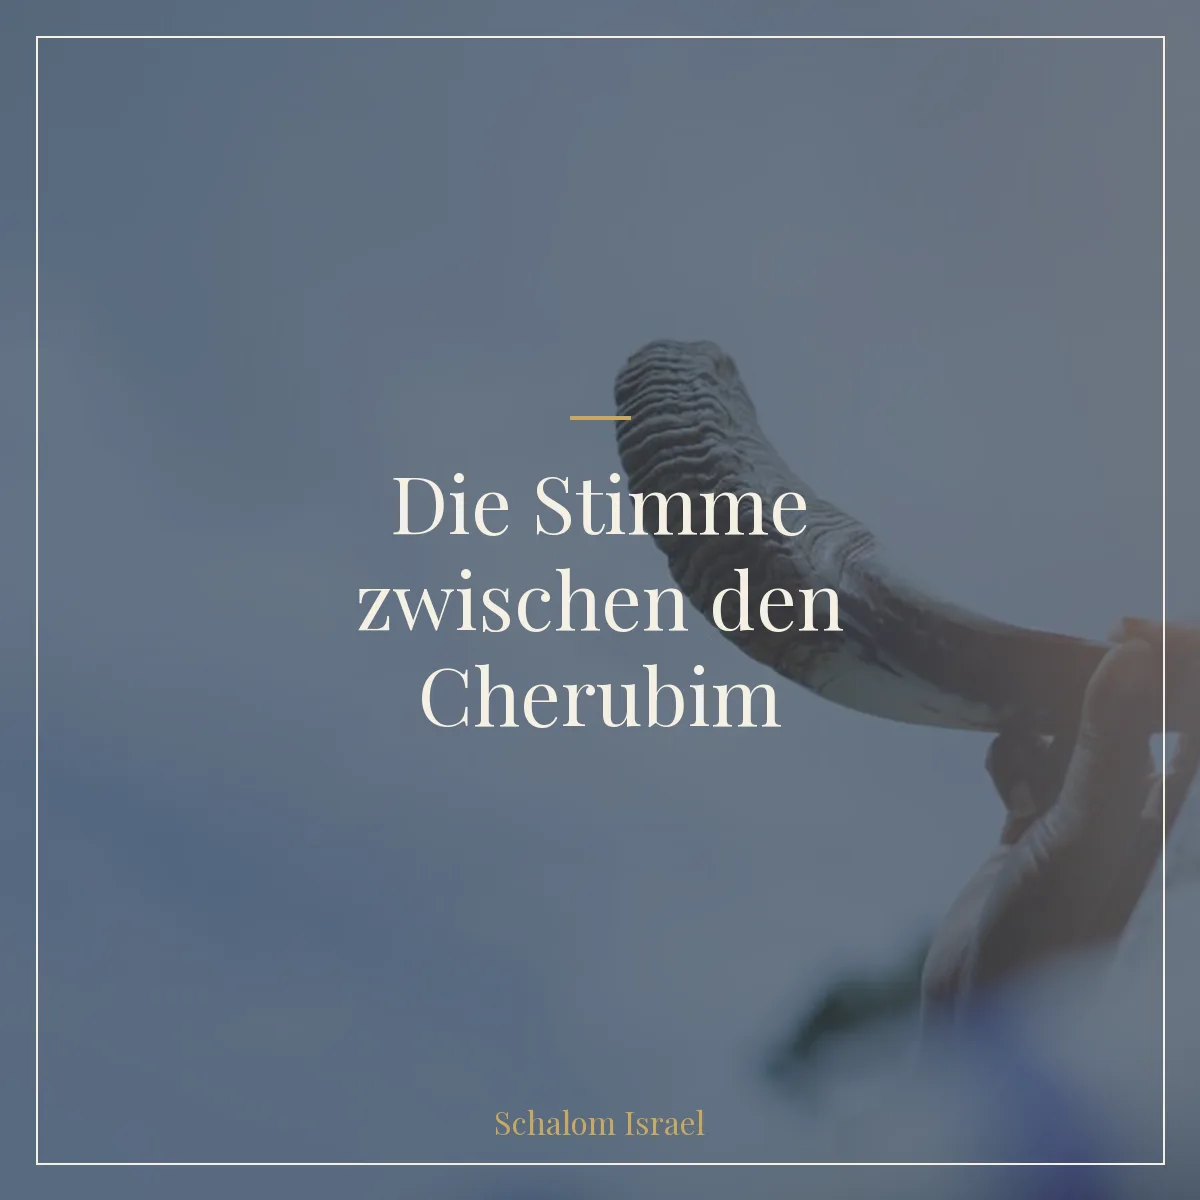
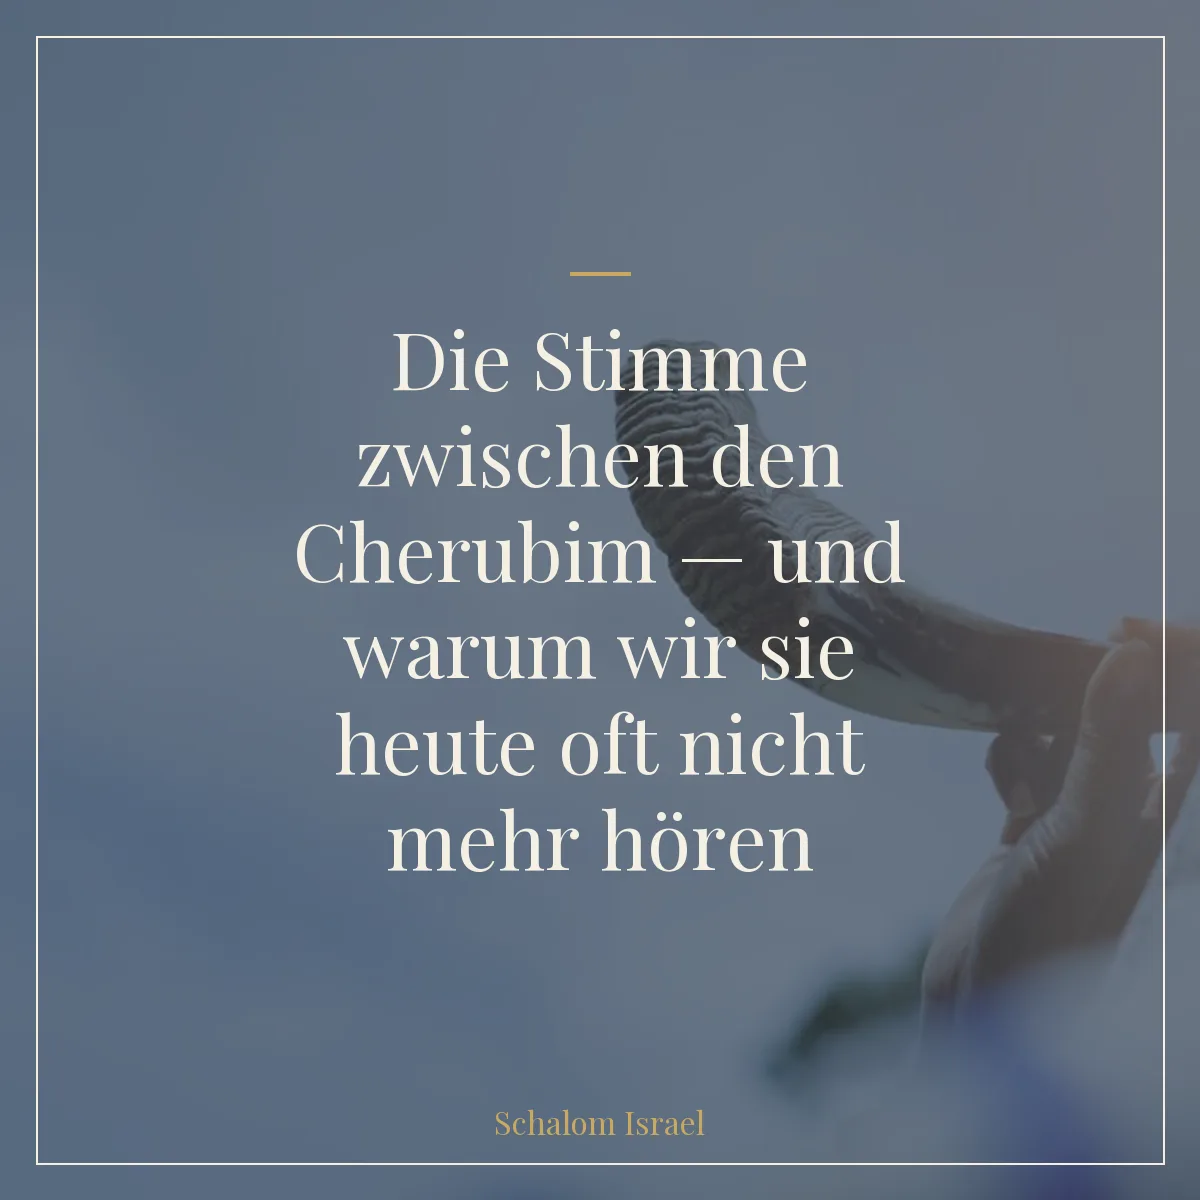
fix(stimme-zwischen-cherubim): Tempel-Wunder-Absatz, Bewegung-Satz neu formuliert, Parascha-Slug nasso, Share-Bild mit vollem Titel
- Neuer Absatz nach den Pilgerpsalmen: Pirkei Awot 5,5 (zehn Tempel-Wunder),
  Gegenwart Gottes strahlt aufs Land aus, hohe geistliche Dichte
- "Bewegung der Tora in Architektur" -> "Im Heiligtum wird sichtbar, wohin
  die Tora fuehrt"
- Parascha-Slug nasso (statt naso) in Blog-Index + Themen-Seite, damit der
  Artikel auf /parascha auftaucht (Mapping-Konsistenz mit nasiraeer-geluebde)
- Share-Bild neu generiert mit vollem Titel "...und warum wir sie heute oft
  nicht mehr hoeren" (6 Zeilen, gut lesbar)

Changed region(s): [[0.2467, 0.2775, 0.7708, 0.6475], [0.3083, 0.6783, 0.6783, 0.74], [0.4933, 0.2158, 0.5242, 0.2467]]

diff --git a/stimme-zwischen-cherubim/index.html b/stimme-zwischen-cherubim/index.html
@@ -250,7 +250,9 @@
 
       <p>Und das spürte das Volk. Die Pilgerpsalmen besingen den Aufstieg nach Jerusalem mit einer Sehnsucht, die sich nicht erfinden lässt (siehe etwa Ps 84 oder Ps 122). Dreimal im Jahr stieg das ganze Volk hinauf, um <em>„zu sehen und gesehen zu werden"</em> (5.Mo 16,16). Das war kein Religionsdienst. Das war Begegnung – gemeinsam, gefeiert, getragen.</p>
 
-      <p><strong>Das Heiligtum ist die Bewegung der Tora in Architektur:</strong> nicht weg von Gott, sondern hin zu ihm. Nicht Verlust, sondern Rückkehr – Schritt für Schritt, Vorhang für Vorhang.</p>
+      <p>Es waren Zeiten von außerordentlich hoher geistlicher Dichte. Die jüdische Überlieferung erinnert sich an den Tempel als einen Ort beständiger Wunder. <em>Pirkei Awot</em> (5,5) zählt zehn davon auf: Das Feuer auf dem Altar verlosch nie, auch bei Sturm und Regen nicht. Der Rauch des Räucherwerks stieg senkrecht nach oben, ohne sich zu verteilen. Kein Mensch wurde von Fliegen oder unreinen Gerüchen geplagt. Niemals fehlte ein Platz, wenn die Stadt sich zu den Wallfahrtsfesten füllte. Die Gegenwart Gottes strahlte aus dem Heiligtum hinaus aufs ganze Land. Sie veränderte die Atmosphäre – bis hinein in die Häuser der Bauern, in die Brunnen der Hirten, in das Lernen der Kinder.</p>
+
+      <p><strong>Im Heiligtum wird sichtbar, wohin die Tora führt:</strong> nicht weg von Gott, sondern hin zu ihm. Nicht Verlust, sondern Rückkehr – Schritt für Schritt, Vorhang für Vorhang.</p>
 
       <h3>Die Stimme pulste</h3>
 

diff --git a/blog/index.html b/blog/index.html
@@ -251,7 +251,7 @@
   <section class="articles blog-grid">
     <div class="container">
 
-      <article class="article-card" data-parasha="naso" data-book="bamidbar">
+      <article class="article-card" data-parasha="nasso" data-book="bamidbar">
         <a href="/stimme-zwischen-cherubim/" class="article-image-link">
           <img src="../bilder/share/stimme-zwischen-cherubim.webp" alt="Die Stimme zwischen den Cherubim – und warum wir sie heute oft nicht mehr hören" class="article-image">
         </a>

diff --git a/themen/worte-und-sprache/index.html b/themen/worte-und-sprache/index.html
@@ -221,7 +221,7 @@
 
   <section class="articles blog-grid">
     <div class="container">
-      <article class="article-card" data-parasha="naso" data-book="bamidbar">
+      <article class="article-card" data-parasha="nasso" data-book="bamidbar">
         <a href="/stimme-zwischen-cherubim/" class="article-image-link">
           <img src="/bilder/share/stimme-zwischen-cherubim.webp" alt="Die Stimme zwischen den Cherubim" class="article-image">
         </a>
